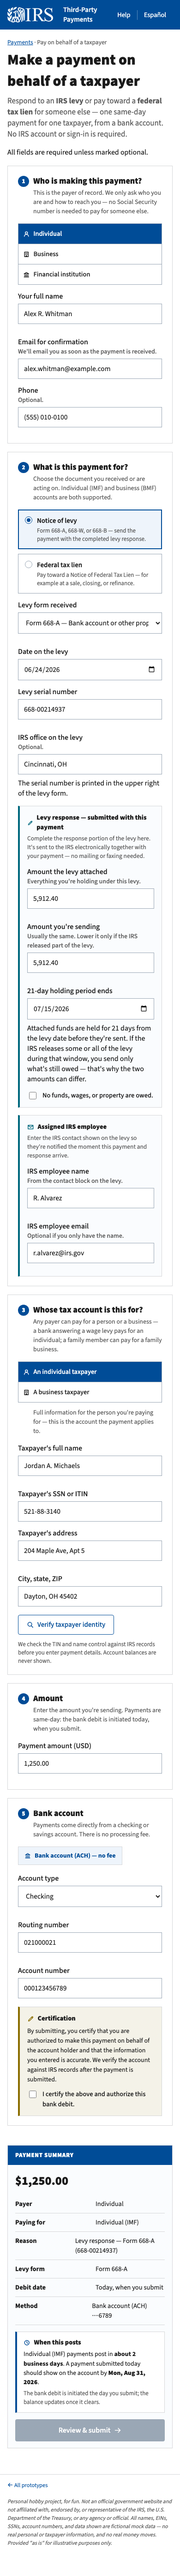
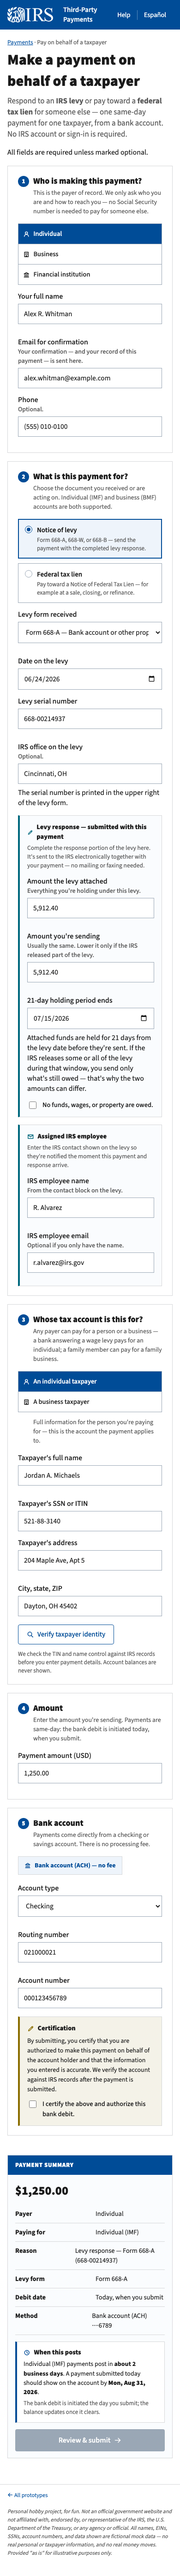
fix: frame the confirmation email as the payor's record (#25)
The part-3 elaboration notes make the point-of-payment email the payor's
historical record (guest flow, no history view). Say so in the email field
hint, the receipt banner, and the status-track step. .shots/25 after-shots
regenerated.

Changed region(s): [[0.0615, 0.0311, 0.8923, 0.9646], [0.8308, 0.2489, 0.8615, 0.3112], [0.0615, 0.9646, 0.0923, 0.9957]]

diff --git a/third-party-pay/index.html b/third-party-pay/index.html
@@ -360,7 +360,7 @@ function fillPayerFields(){
     html=`
       <div class="grid2">
         <div class="field"><label for="pname">Your full name</label><input id="pname" value="Alex R. Whitman"></div>
-        <div class="field"><label for="pemail">Email for confirmation <span class="hint">We'll email you as soon as the payment is received.</span></label><input id="pemail" value="alex.whitman@example.com"></div>
+        <div class="field"><label for="pemail">Email for confirmation <span class="hint">Your confirmation — and your record of this payment — is sent here.</span></label><input id="pemail" value="alex.whitman@example.com"></div>
       </div>
       <div class="grid2">
         <div class="field"><label for="pphone">Phone <span class="hint">Optional.</span></label><input id="pphone" value="(555) 010-0100"></div>
@@ -635,7 +635,7 @@ function buildReceipt(){
   }
   $("rConf").textContent="TPP-2026-"+String(Math.floor(1000+Math.random()*9000))+"-"+String(Math.floor(100+Math.random()*900));
   const emailEl=$("pemail")||$("cemail")||$("iemail");
-  $("rEmailNote").innerHTML=`A confirmation email is on its way to <b>${emailEl?emailEl.value:"you"}</b>. It confirms we <b>received</b> this payment — processing status appears on the taxpayer's account once it posts.`;
+  $("rEmailNote").innerHTML=`A confirmation email is on its way to <b>${emailEl?emailEl.value:"you"}</b> — save it as your record of this payment. It confirms we <b>received</b> the payment; processing status appears on the taxpayer's account once it posts.`;
 
   /* levy / lien rows on the receipt */
   const extra=$("rLevyRows");
@@ -659,7 +659,7 @@ function buildReceipt(){
 
   const steps=[
     {cls:"done",t:"Payment submitted",d:"Received "+fmtDate(new Date())},
-    {cls:"done",t:"Confirmation email sent",d:"Confirms receipt — not that the payment has processed"},
+    {cls:"done",t:"Confirmation email sent",d:"Confirms receipt — not that the payment has processed. Keep it as your record."},
     ...(state.collKind==="levy"?[{cls:"done",t:"Levy response received",d:"Filed electronically with this payment"},{cls:"done",t:"Assigned IRS employee notified",d:"A payment alert was sent for this case"}]:[]),
     {cls:"current",t:"Bank debit clears",d:"Around "+fmtDate(debit)},
     {cls:"pending",t:"Applied to the tax account",d:state.forType==="bmf"?"On the weekly business cycle":"Within about 2 business days"},

diff --git a/docs/ux-log.md b/docs/ux-log.md
@@ -209,3 +209,17 @@ history keeps them).
 - Non-prototype items in #25 (Firebase analytics, F6/SAT testing, QA/508,
   app readiness, Jira/tooling) are app- and process-scope, tracked outside
   this repo.
+
+## 2026-08-27 — requirements part 3 follow-up (#25): email is the record
+
+- Per the elaboration notes, the confirmation email is the payor's
+  **historical record** (guest flow has no payment history to sign in to).
+  Copy now says so in three places: the email field hint ("Your confirmation
+  — and your record of this payment — is sent here"), the receipt banner
+  ("save it as your record of this payment"), and the status-track step
+  ("Keep it as your record."). Receipt framing stays received-not-processed.
+- Everything else in the notes was already shipped in the prior pass
+  (individual-first, SLID lien path with masked TIN, no period collection,
+  accept any amount with no overpayment messaging, no history/scheduling,
+  guest flow, both copy edits, numeric-only TINs, required-field marking).
+  Standing by for Collection's levy-response language.
